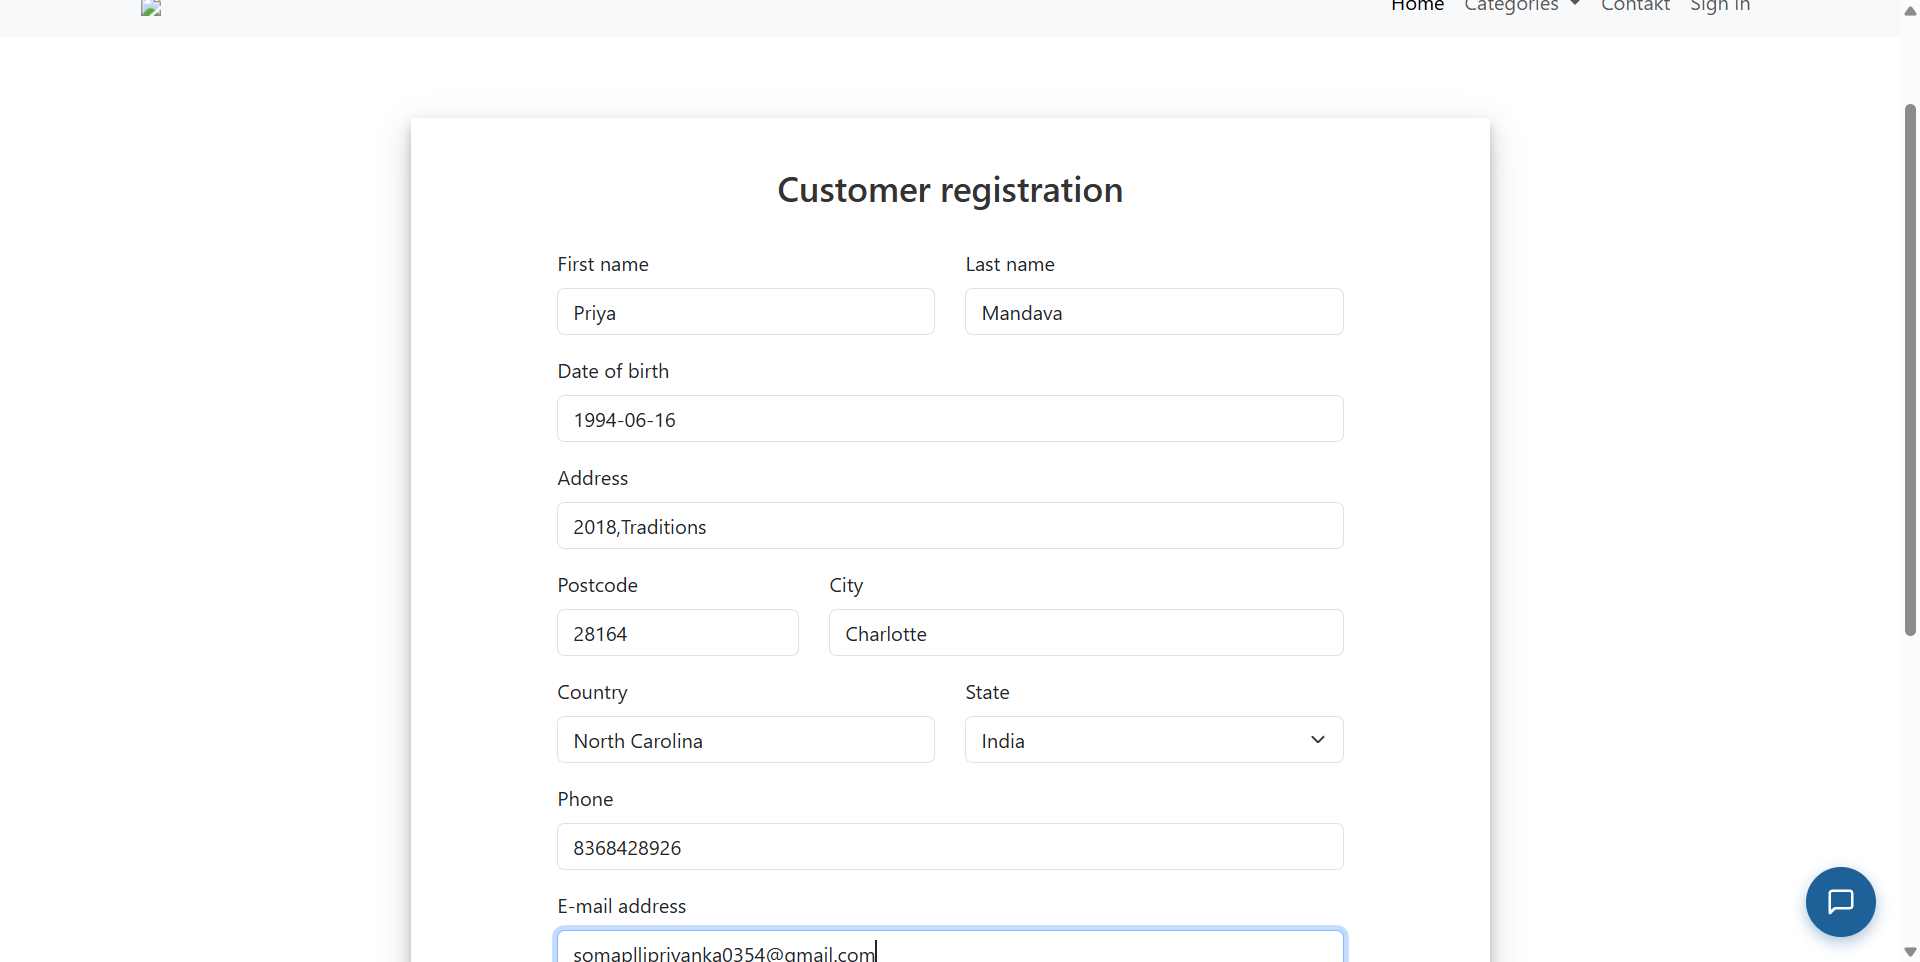
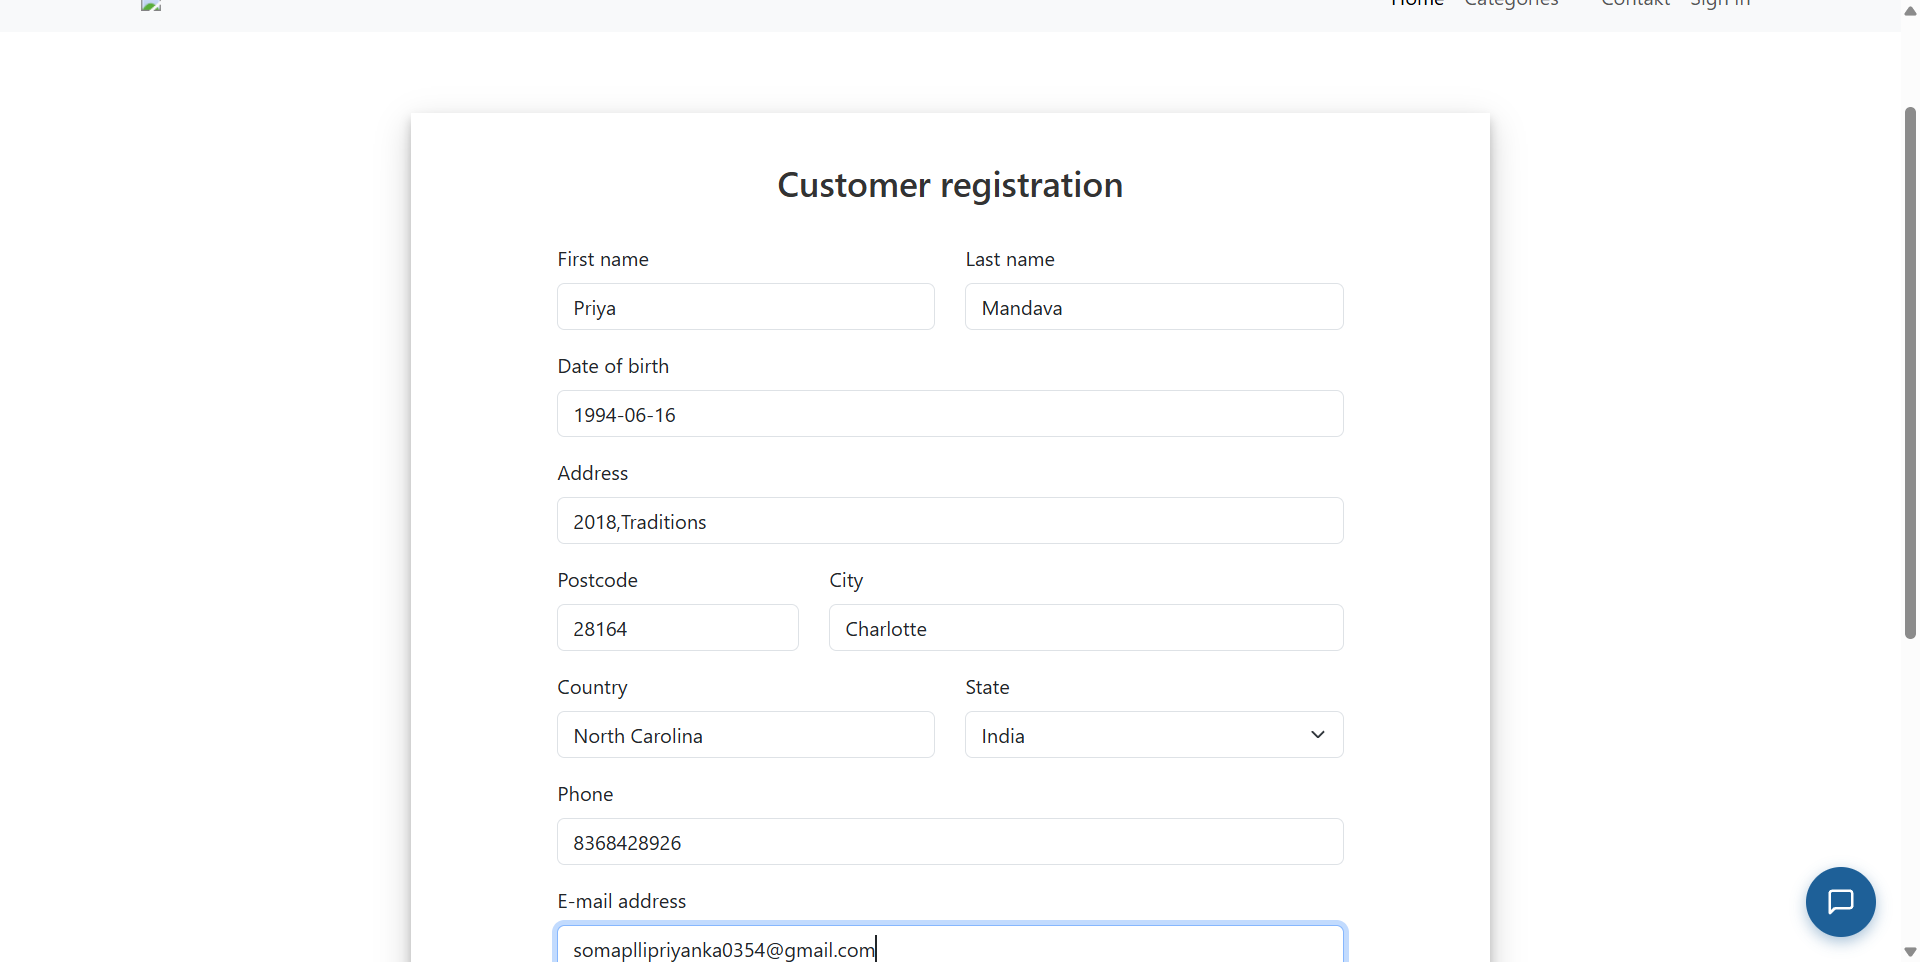
Bug  page commits

diff --git a/src/main/java/util/UserInterfaceActionsUtils.java b/src/main/java/util/UserInterfaceActionsUtils.java
@@ -19,14 +19,14 @@ public class UserInterfaceActionsUtils {
 	}
 
 	public static void enterPassword(By locator, String password) {
-		WebElement ele=WaitUtils.visibilityOfElement(locator);
-		JSUtils.scrollToAnElement(ele);
-		WaitUtils.visibilityOfElement(locator).sendKeys(password);
+		WebElement ele=WaitUtils.presenceOfElement(locator);
+		JSUtils.jsEnterPassword(ele);
+		WaitUtils.presenceOfElement(locator).sendKeys(password);
 		ExtentTestManager.log.info("Entered text is **********");
 	}
 
 	public static String getText(By locator, String name) {
-		String text = WaitUtils.visibilityOfElement(locator).getText();
+		String text = WaitUtils.presenceOfElement(locator).getText();
 		ExtentTestManager.log.info("Text of the " + name + "  is  " + text);
 		return text;
 	}
@@ -42,7 +42,7 @@ public class UserInterfaceActionsUtils {
 	}
 
 	public static void selectDropDownByIndex(By locator, int index) {
-		WebElement ele = WaitUtils.visibilityOfElement(locator);
+		WebElement ele = WaitUtils.presenceOfElement(locator);
 		Select dd = new Select(ele);
 		dd.selectByIndex(index);
 		ExtentTestManager.log.info("DropDown option is selected by index value. Index is:   " + index);

diff --git a/src/main/java/util/WaitUtils.java b/src/main/java/util/WaitUtils.java
@@ -32,10 +32,14 @@ public class WaitUtils {
 	}
 	public static WebElement visibilityOfElements(By locator) {
 		return wait.until(ExpectedConditions.visibilityOfElementLocated(locator));
+		
 	}
+	
+	
+	
 
-	public static WebElement visibilityOfElement(By locator) {
-		 WebElement ele=JSUtils.jsEnterPassword(wait.until(ExpectedConditions.visibilityOfElementLocated(locator)));
+	public static WebElement presenceOfElement(By locator) {
+		 WebElement ele=JSUtils.jsEnterPassword(wait.until(ExpectedConditions.presenceOfElementLocated(locator)));
 		 
 		 return ele;
 		// wait.until(ExpectedConditions.visibilityOfElementLocated(locator));
